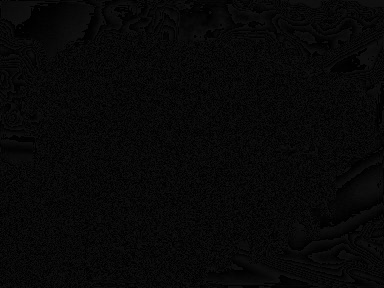
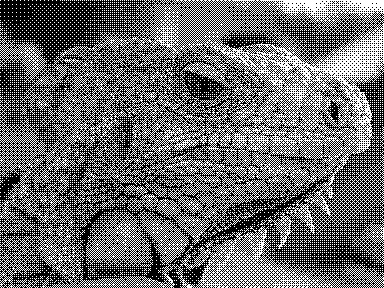
Assignment I Finish

diff --git a/001.py b/001.py
@@ -5,8 +5,6 @@ img = cv2.imread('001.jpg',0)  # open file ;  0 to tell the computer that image 
 Pixel = img.shape  #get the size of image
 x = Pixel[0] #x of image 
 y = Pixel[1] #y for image
-a = x/4
-b = y/4
 #for i in range(x):
    # for j in range(y):
         #if img[i][j] < 128:    #if the pixel in range 0 to 127, change to 0 for black
@@ -18,18 +16,15 @@ DM = [[0,8,2,10],[12,4,14,6],[3,11,1,9],[15,7,13,5]] #Dither Matrix
 
 for i in range(x):
     for j in range(y):
-        img[i][j] = img[i][j] % 16
+        img[i][j] = img[i][j] * 16 / 255
 
-for i in range(0, x, int(a)):  #the way to count the "img" and "DM" is wrong
-    k = 0
-    l = 0
-    for j in range(0, y, int(b)):
-        if img[i][j] > DM[k][l]:
-            img[i][j] = 1
+
+for i in range(x):  #the way to count the "img" and "DM" is wrong
+    for j in range(y):
+        if img[i][j] > DM[i%4][j%4]:
+            img[i][j] = 255
         else:
             img[i][j] = 0
-    k = k + 1
-    l = l + 1
 
 
 cv2.imshow('img',img) #show the result
